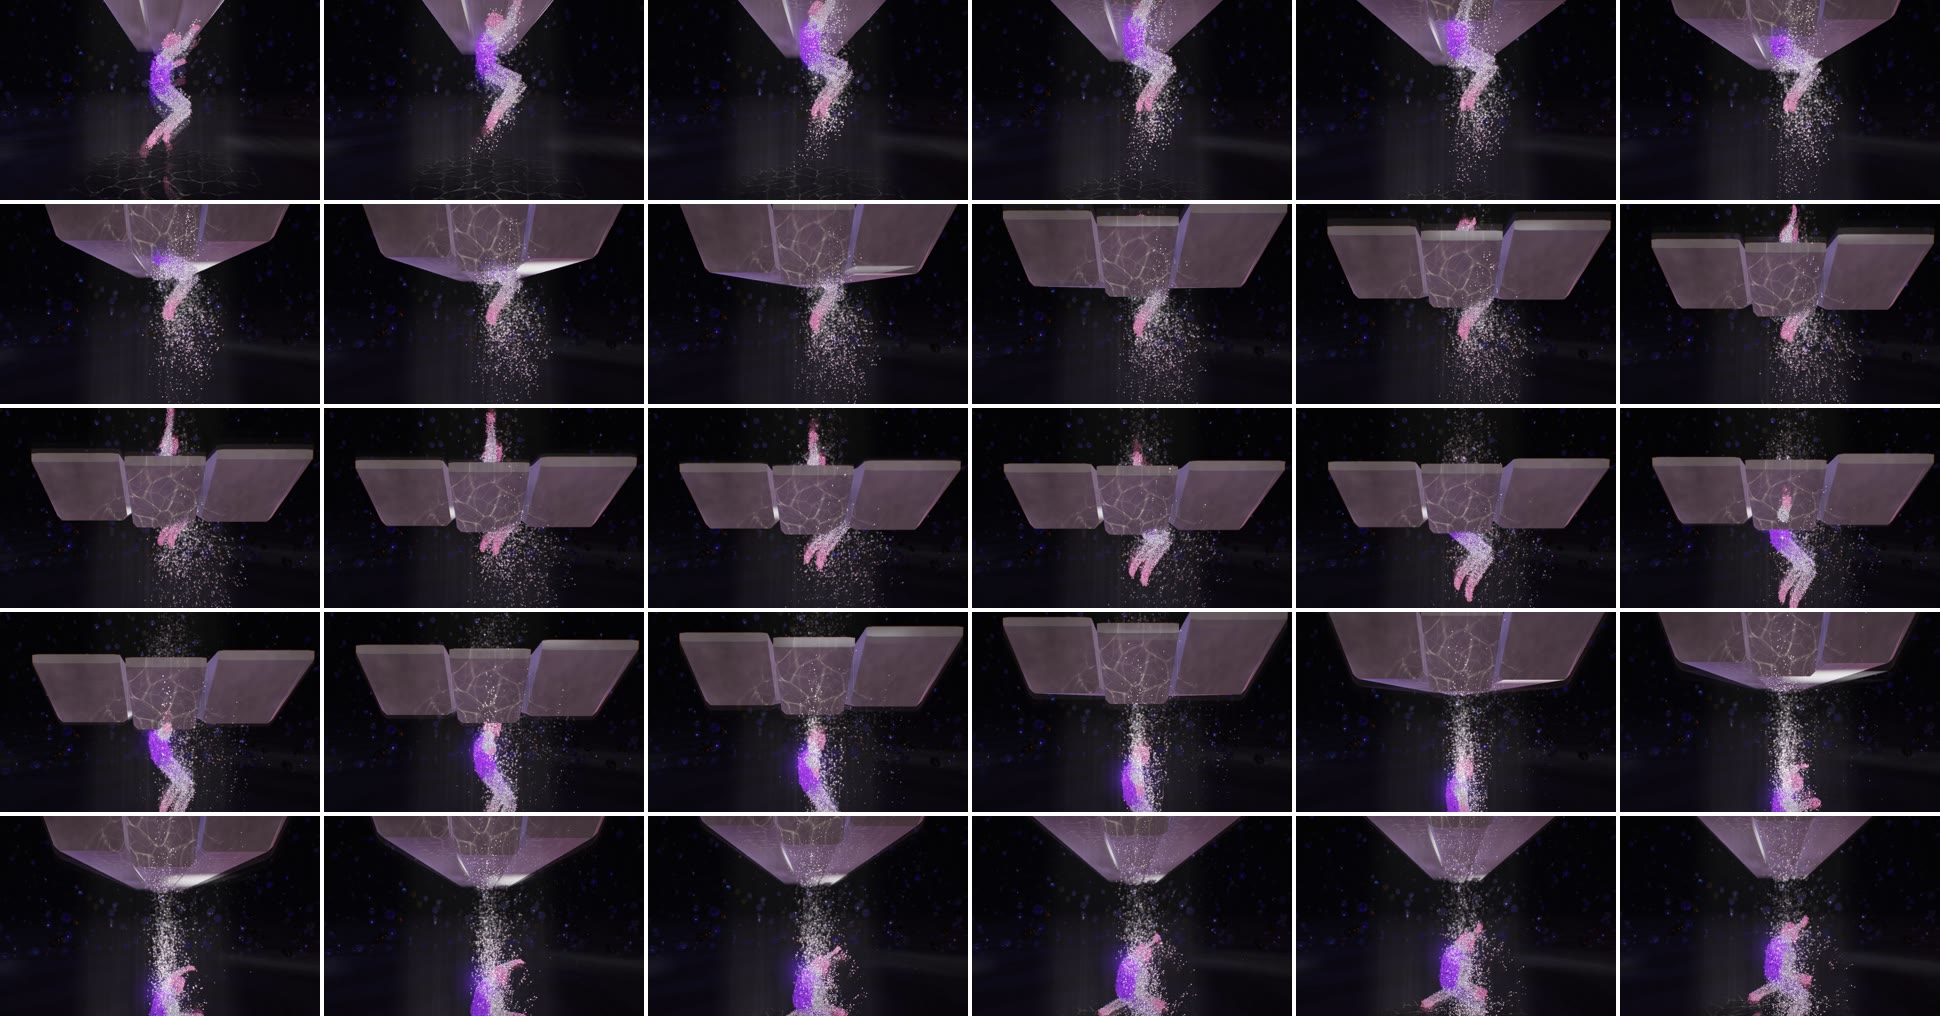
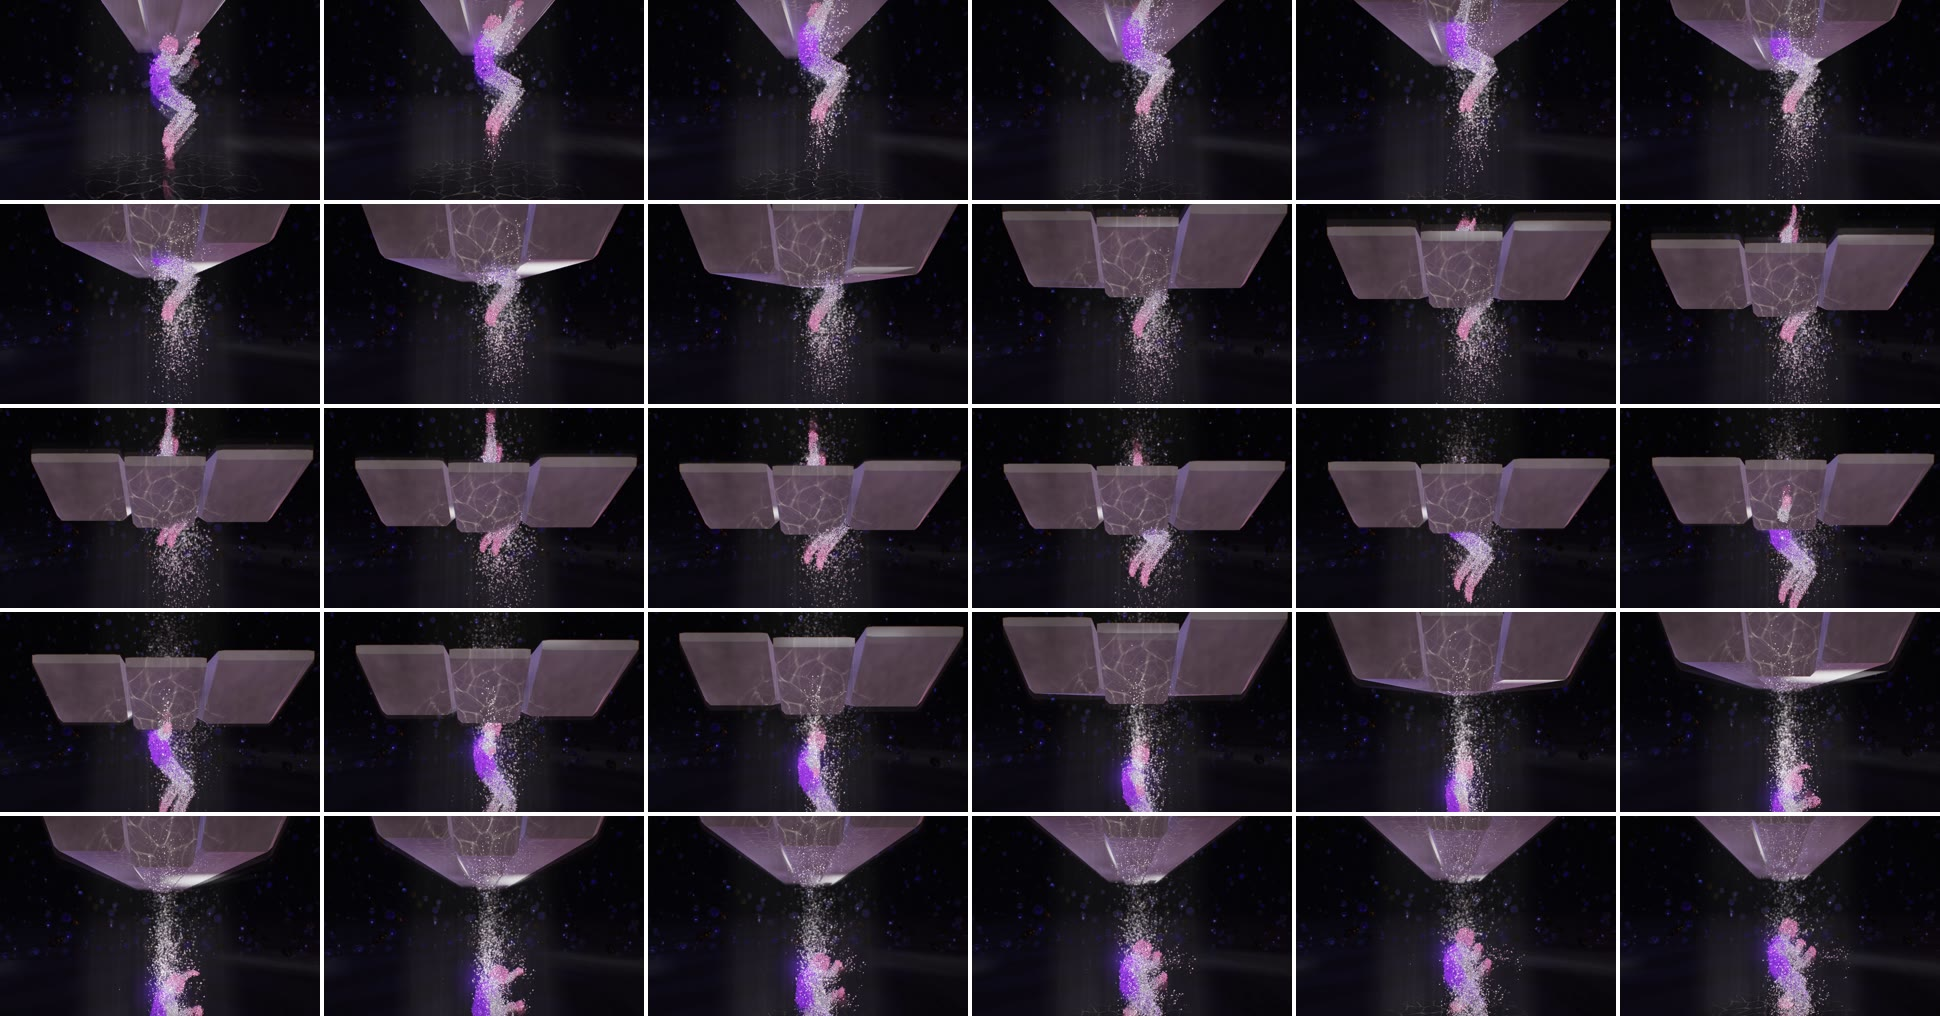
Gems: shards thrown relative to the body, a softer smaller heart halo

diff --git a/src/matter/gems/gems.ts b/src/matter/gems/gems.ts
@@ -500,7 +500,7 @@ export class GemPasses implements MatterPasses {
       if (!w || h.strength <= 0 || !lit) { row.at[3] = 0; row.glow[3] = 0; return; }
       const a = JOINT.Spine1 * JOINT_FLOATS, b2 = JOINT.Spine * JOINT_FLOATS;
       row.at = [w[a] * 0.7 + w[b2] * 0.3, w[a + 1] * 0.7 + w[b2 + 1] * 0.3, w[a + 2] * 0.7 + w[b2 + 2] * 0.3, h.radius];
-      row.glow = [h.glow[0], h.glow[1], h.glow[2], h.strength * pulse * P.heart];
+      row.glow = [h.glow[0], h.glow[1], h.glow[2], h.strength * pulse];
     });
     this.hearts.set({ h: this.heartRows } as unknown as Hearts);
   }

diff --git a/src/matter/gems/params.ts b/src/matter/gems/params.ts
@@ -63,9 +63,9 @@ export const gemParams = defineParams('gems', {
   crystal: 2.4,
   // the hearts (hearts.ts)
   /** how much a heart lights the stones and crystals round it */
-  heart: 1,
-  heartHalo: 0.9,
-  haloSize: 2.4,
+  heart: 0.5,
+  heartHalo: 0.55,
+  haloSize: 1.8,
   // sparkles
   sparkRate: 0.6,
   sparkSpeed: 0.9,
